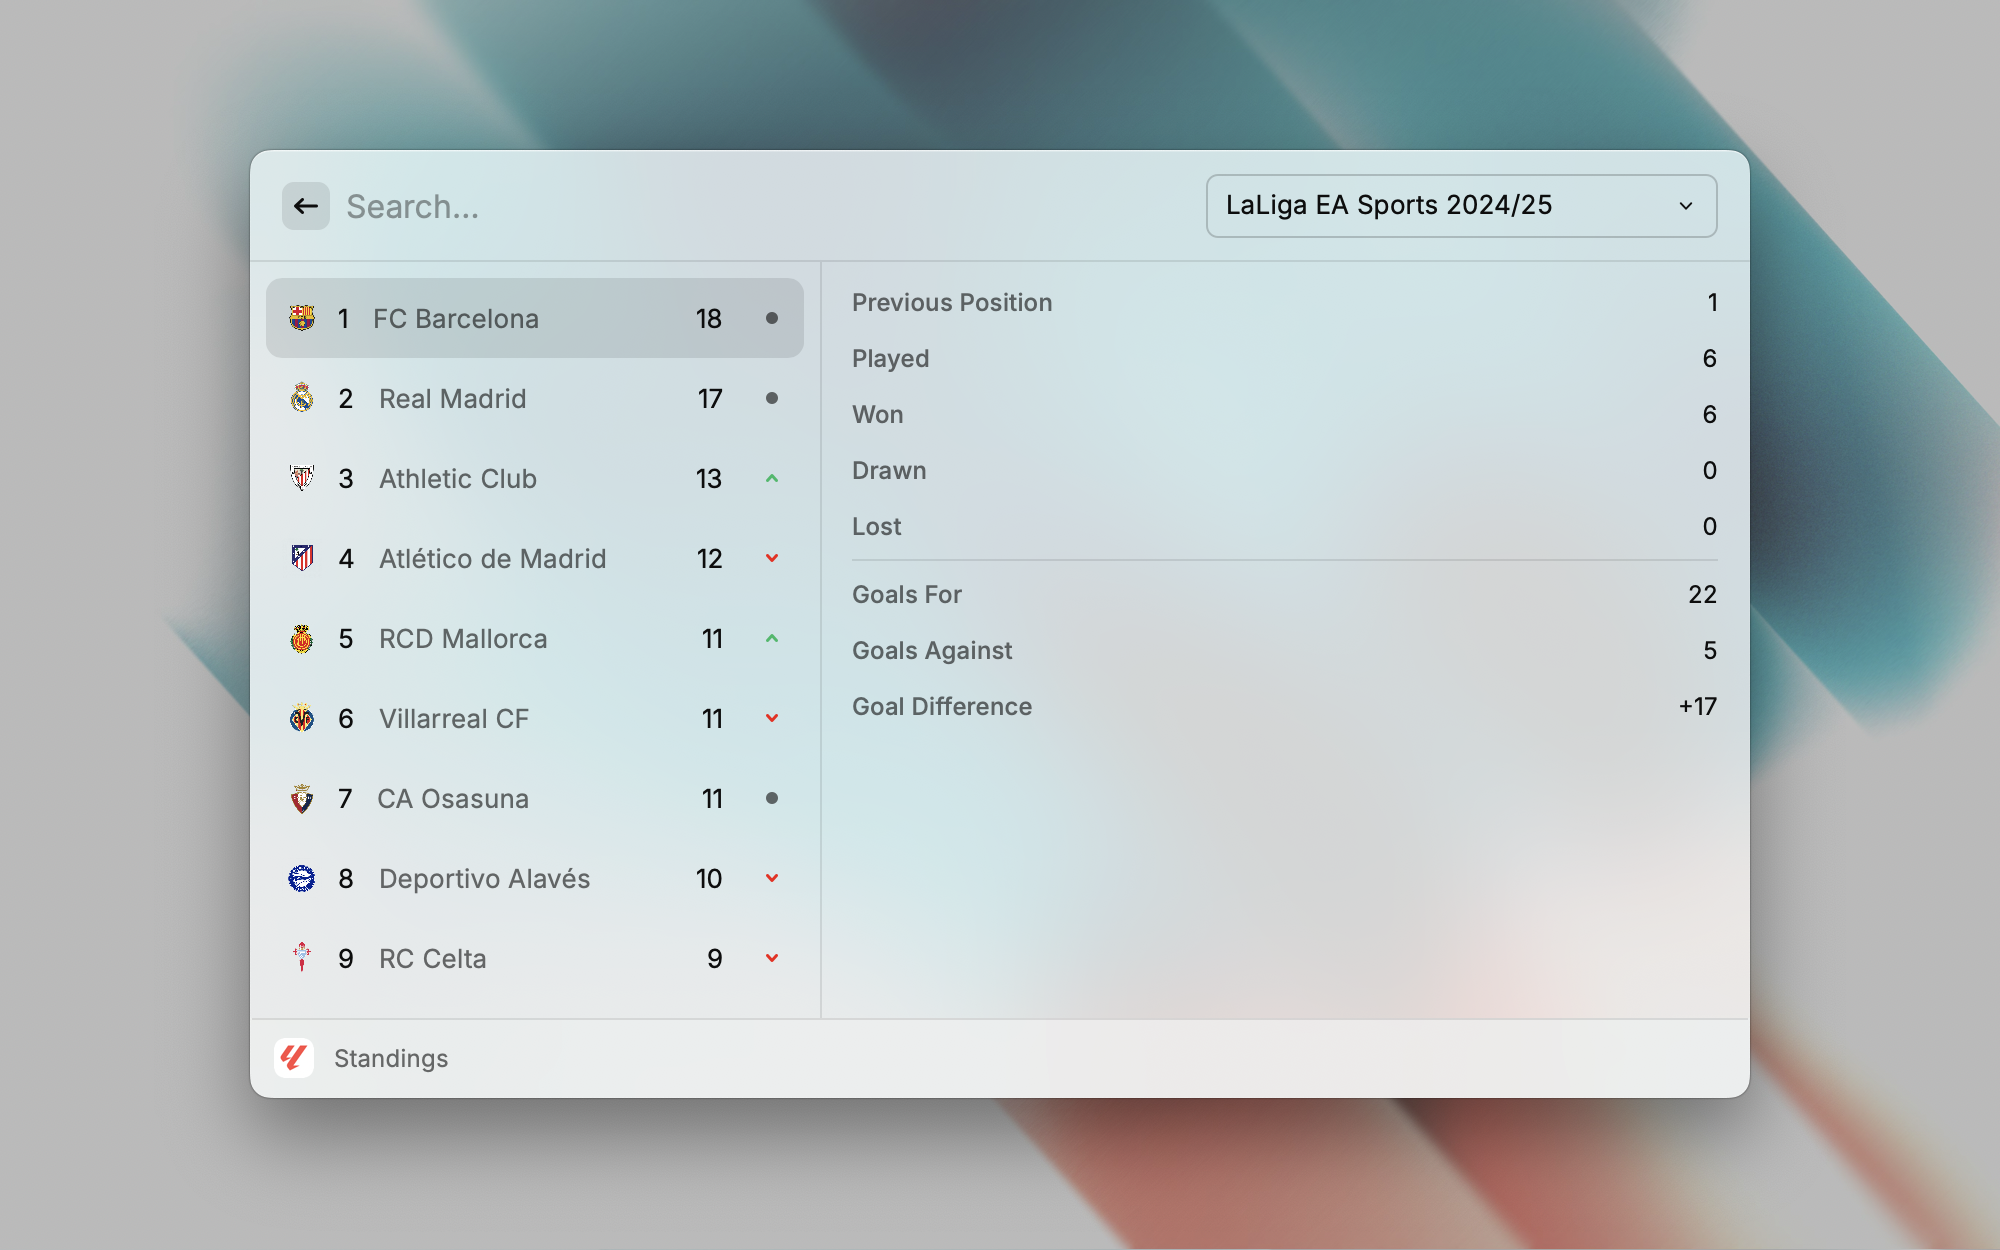
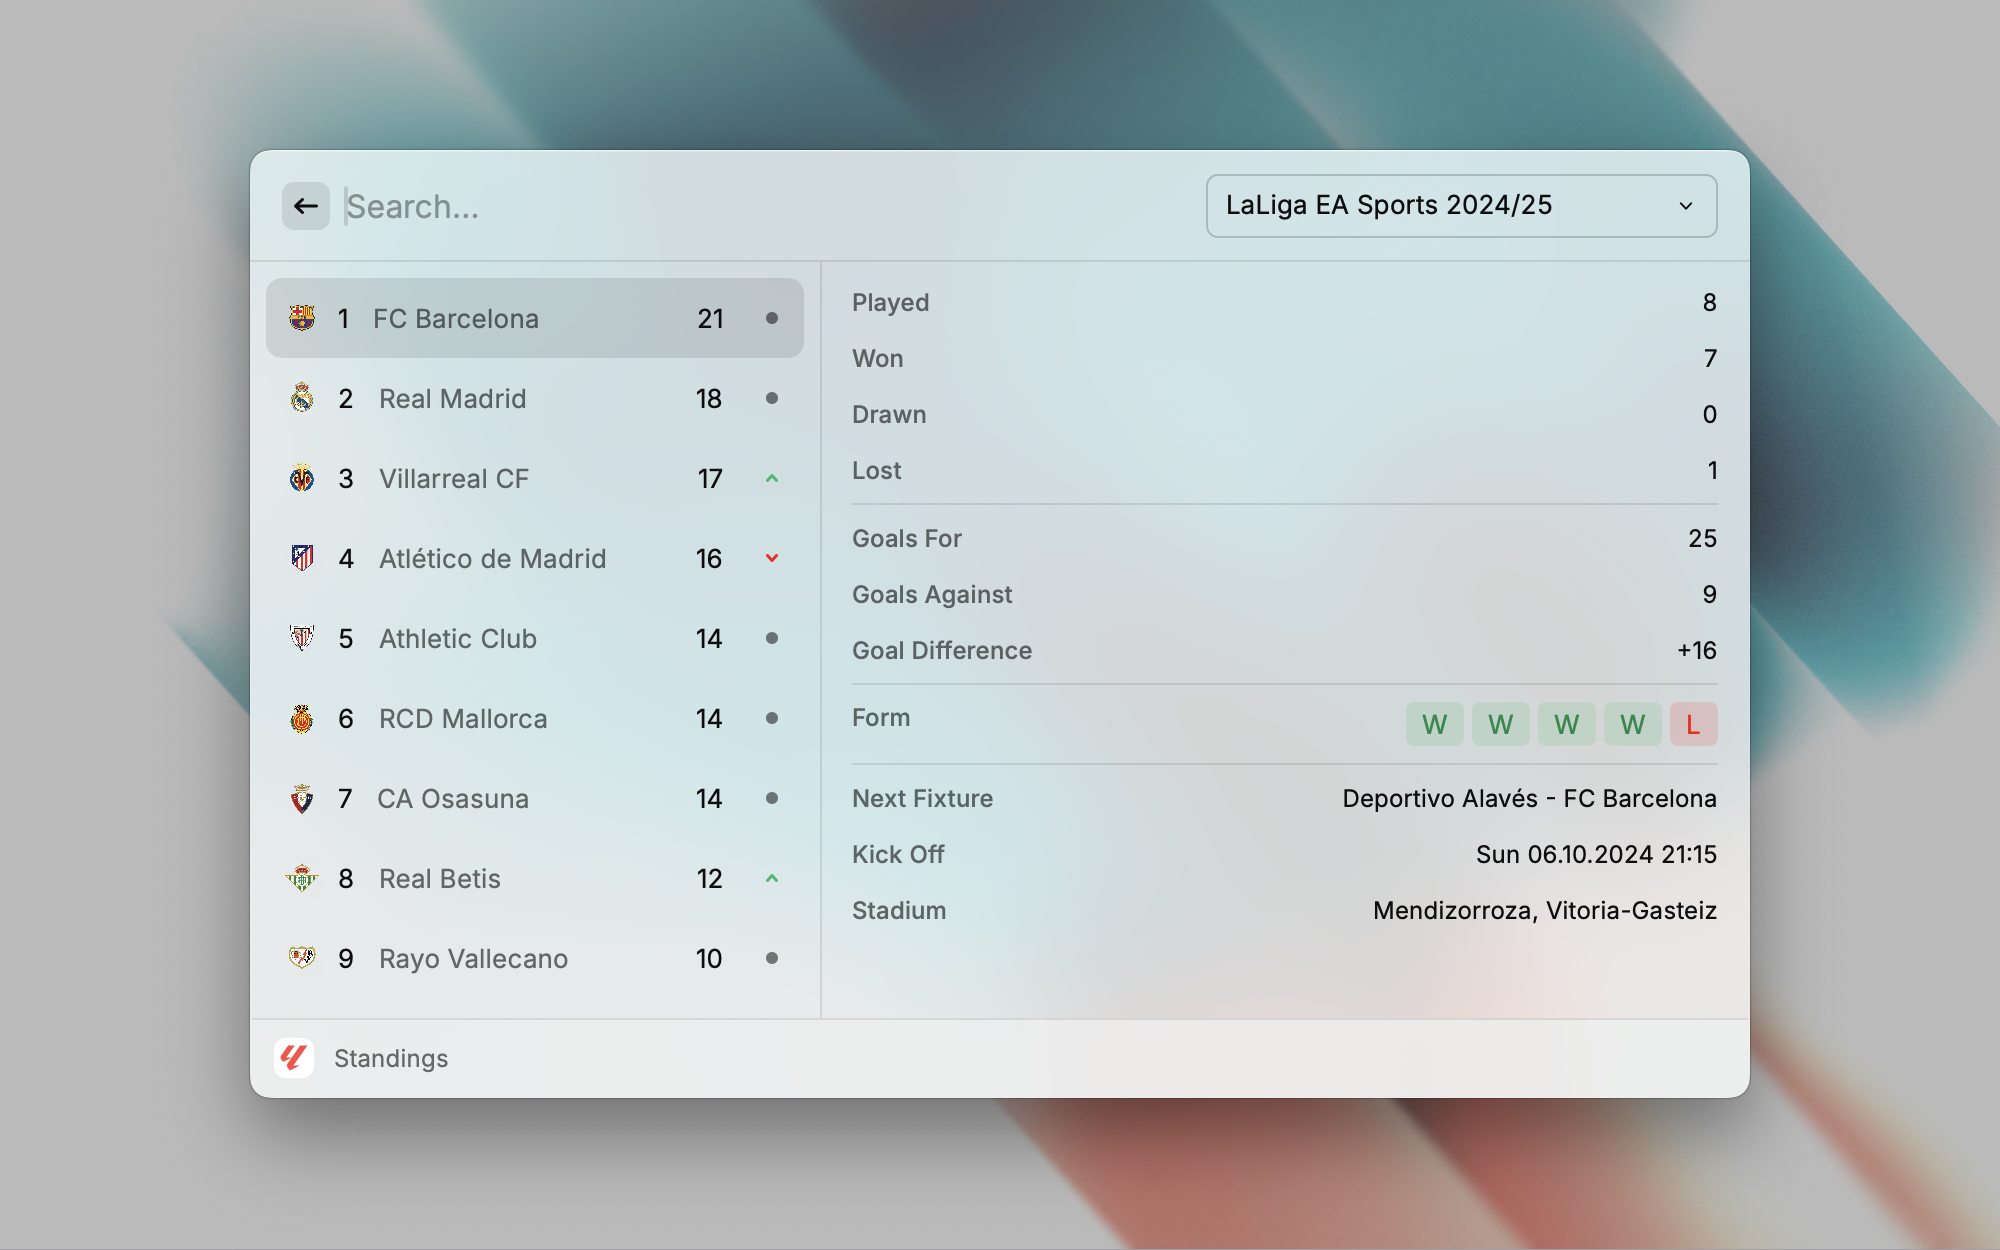
feat: add prev, next match to standings

diff --git a/src/standing.tsx b/src/standing.tsx
@@ -1,11 +1,64 @@
 import { Color, Icon, Image, List } from "@raycast/api";
 import { usePromise } from "@raycast/utils";
+import { formatDate } from "date-fns";
 import { useState } from "react";
-import { getStandings } from "./api";
+import { getPrevNextMatches, getStandings } from "./api";
 import CompetitionDropdown from "./components/competition_dropdown";
+import { Match } from "./types";
+
+function PreviousNextMatches(props: { team: string; previous?: Match[]; next?: Match[] }) {
+  const { team, previous, next } = props;
+  const metadata = [];
+
+  if (previous) {
+    metadata.push(<List.Item.Detail.Metadata.Separator key="prev-separator" />);
+
+    const form = previous.map((match) => {
+      let text = "";
+      let color = Color.SecondaryText;
+      if (match.home_score === match.away_score) {
+        text = "D";
+      } else if (match.home_score < match.away_score) {
+        text = match.home_team.slug === team ? "L" : "W";
+        color = text === "L" ? Color.Red : Color.Green;
+      } else {
+        text = match.home_team.slug === team ? "W" : "L";
+        color = text === "L" ? Color.Red : Color.Green;
+      }
+      return <List.Item.Detail.Metadata.TagList.Item key={match.id} text={text} color={color} />;
+    });
+
+    // latest match is in the right
+    metadata.push(<List.Item.Detail.Metadata.TagList key="form" title="Form" children={form.reverse()} />);
+  }
+
+  if (next?.length) {
+    metadata.push(
+      <List.Item.Detail.Metadata.Separator key="next-separator" />,
+      <List.Item.Detail.Metadata.Label
+        key="next"
+        title="Next Fixture"
+        text={`${next[0].home_team.nickname} - ${next[0].away_team.nickname}`}
+      />,
+      <List.Item.Detail.Metadata.Label
+        key="kickoff"
+        title="Kick Off"
+        text={next[0].time ? formatDate(next[0].date, "eee dd.MM.yyyy HH:mm") : "TBC"}
+      />,
+      <List.Item.Detail.Metadata.Label
+        key="stadium"
+        title="Stadium"
+        text={`${next[0].venue.name}, ${next[0].venue.city}`}
+      />,
+    );
+  }
+
+  return metadata;
+}
 
 export default function GetTables() {
   const [competition, setCompetition] = useState<string>("");
+  const [team, setTeam] = useState<string | null>(null);
 
   const { data: standing, isLoading } = usePromise(
     async (competition) => {
@@ -16,12 +69,20 @@ export default function GetTables() {
 
   const isEnded = standing?.every((t) => t.played === 38);
 
+  const { data, isLoading: isLoadingPrevNext } = usePromise(
+    async (team) => {
+      return team ? await getPrevNextMatches(team, competition) : undefined;
+    },
+    [team],
+  );
+
   return (
     <List
       throttle
       isLoading={isLoading}
       searchBarAccessory={<CompetitionDropdown selected={competition} onSelect={setCompetition} />}
       isShowingDetail={true}
+      onSelectionChange={setTeam}
     >
       {standing?.map((team) => {
         let icon: Image.ImageLike | undefined;
@@ -69,12 +130,14 @@ export default function GetTables() {
               },
               {
                 icon,
+                tooltip: `Previous Position: ${team.previous_position}`,
               },
             ];
 
         return (
           <List.Item
-            key={team.team.id}
+            id={team.team.slug}
+            key={team.team.slug}
             icon={team.team.shield.url}
             title={team.position.toString()}
             subtitle={team.team.nickname}
@@ -89,10 +152,6 @@ export default function GetTables() {
                         <List.Item.Detail.Metadata.TagList.Item text={team.qualify.name} color={team.qualify.color} />
                       </List.Item.Detail.Metadata.TagList>
                     )}
-                    <List.Item.Detail.Metadata.Label
-                      title="Previous Position"
-                      text={team.previous_position.toString()}
-                    />
                     <List.Item.Detail.Metadata.Label title="Played" text={team.played.toString()} />
                     <List.Item.Detail.Metadata.Label title="Won" text={team.won.toString()} />
                     <List.Item.Detail.Metadata.Label title="Drawn" text={team.drawn.toString()} />
@@ -101,6 +160,14 @@ export default function GetTables() {
                     <List.Item.Detail.Metadata.Label title="Goals For" text={team.goals_for.toString()} />
                     <List.Item.Detail.Metadata.Label title="Goals Against" text={team.goals_against.toString()} />
                     <List.Item.Detail.Metadata.Label title="Goal Difference" text={team.goal_difference.toString()} />
+
+                    {!isLoadingPrevNext && (
+                      <PreviousNextMatches
+                        team={team.team.slug}
+                        previous={data?.previous_matches}
+                        next={data?.next_matches}
+                      />
+                    )}
                   </List.Item.Detail.Metadata>
                 }
               />

diff --git a/src/api/index.ts b/src/api/index.ts
@@ -1,7 +1,17 @@
 import { getPreferenceValues } from "@raycast/api";
 import { showFailureToast } from "@raycast/utils";
 import axios, { AxiosRequestConfig, AxiosResponse } from "axios";
-import { Gameweek, Match, MatchCommentary, MatchLineup, Round, Squad, Standing, Team } from "../types";
+import {
+  Gameweek,
+  Match,
+  MatchCommentary,
+  MatchLineup,
+  MatchPreviousNext,
+  Round,
+  Squad,
+  Standing,
+  Team,
+} from "../types";
 
 const { apikey } = getPreferenceValues();
 
@@ -114,6 +124,34 @@ export const getMatches = async (subscriptionSlug: string, week: number): Promis
     showFailureToast(e);
 
     return [];
+  }
+};
+
+export const getPrevNextMatches = async (
+  team: string,
+  subscriptionSlug: string,
+): Promise<MatchPreviousNext | undefined> => {
+  const config: AxiosRequestConfig = {
+    method: "GET",
+    url: `${endpoint}/matches/${team}/nextpreviousmatches`,
+    params: {
+      subscriptionSlug,
+      previousLimit: 5,
+      nextLimit: 1,
+      previousOrderField: "date",
+      previousOrderType: "desc",
+    },
+    headers,
+  };
+
+  try {
+    const { data }: AxiosResponse<Record<"match_previous_next", MatchPreviousNext>> = await axios(config);
+
+    return data.match_previous_next;
+  } catch (e) {
+    showFailureToast(e);
+
+    return undefined;
   }
 };
 

diff --git a/src/types/index.d.ts b/src/types/index.d.ts
@@ -27,6 +27,11 @@ export interface Match {
   lde_id: number;
 }
 
+export interface MatchPreviousNext {
+  previous_matches: Match[];
+  next_matches: Match[];
+}
+
 export interface Standing {
   played: number;
   points: number;

diff --git a/README.md b/README.md
@@ -8,12 +8,12 @@ A comprehensive extension for tracking La Liga matches, standings, and club info
 
 ### **Key Features**
 
-* **Standings:** View the current league table to track your favorite teams' progress.
-* **Results:** Access detailed match results, including scores, goalscorers, and match highlights.
-* **Clubs:** Explore information about individual teams, including their squad, recent matches, and club history.
-* **Match Information:** Dive deeper into matches with insightful comments, lineups and analysis.
+* **Standings:** View the current league table, including points, goal difference, and head-to-head records.
+* **Results:** Access detailed match results, including scores, goalscorers, match highlights, and lineups.
+* **Clubs:** Explore information about individual teams, including their history, squad, recent matches, and key players.
+* **Match Information:** Dive deeper into matches with insightful comments, lineups, and analysis.
 * **Dynamic Seasons List:** Easily navigate through different seasons to view historical data.
-* **Other Competitions:** Explore other football leagues beyond La Liga.
+* **Other Competitions:** Explore other football leagues beyond La Liga, such as UEFA Champions League, Europa League, and domestic leagues.
 
 ## Issues
 

diff --git a/CHANGELOG.md b/CHANGELOG.md
@@ -2,6 +2,7 @@
 
 ## [Enhanced Match Information] - {PR_MERGED_DATE}
 - Added match lineups to provide detailed information about the starting players and substitutes for each team.
+- Included upcoming and previous matches directly in the standings view for easier navigation.
 
 ## [Enhanced Standings & Performance] - 2024-09-24
 - Updated standings to always show detailed statistics, including points, goal difference, and head-to-head records.
@@ -30,7 +31,4 @@
 - Implemented new list item detail metadata for enhanced information display.
 
 ## [Initial Release] - 2022-03-24
-- Introduced the core functionalities of the extension:
-    - Standings: View the current league table.
-    - Results: Access match results and statistics.
-    - Clubs: Explore information about individual teams.
+- View current standings, access match results and statistics, and explore information about individual teams.
